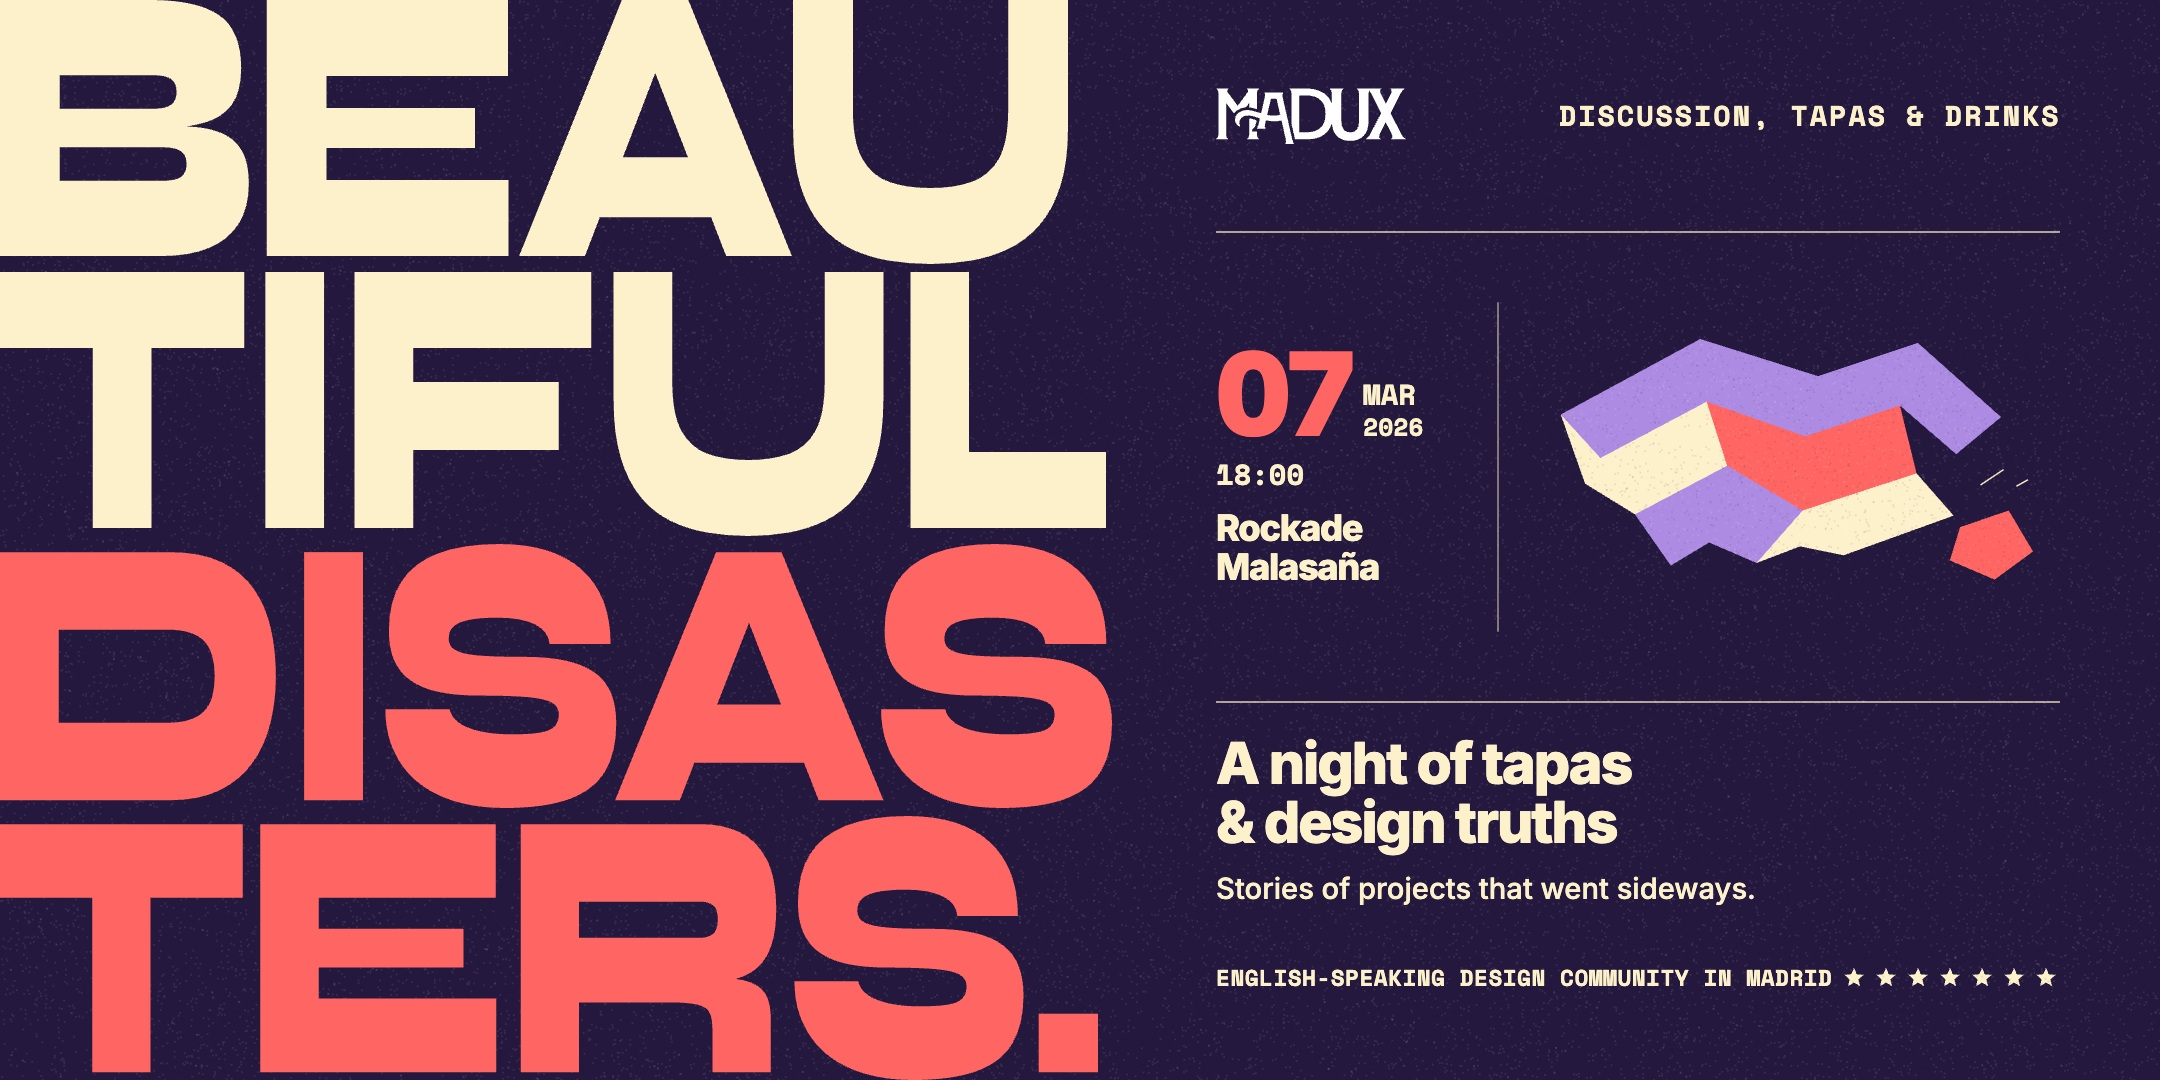
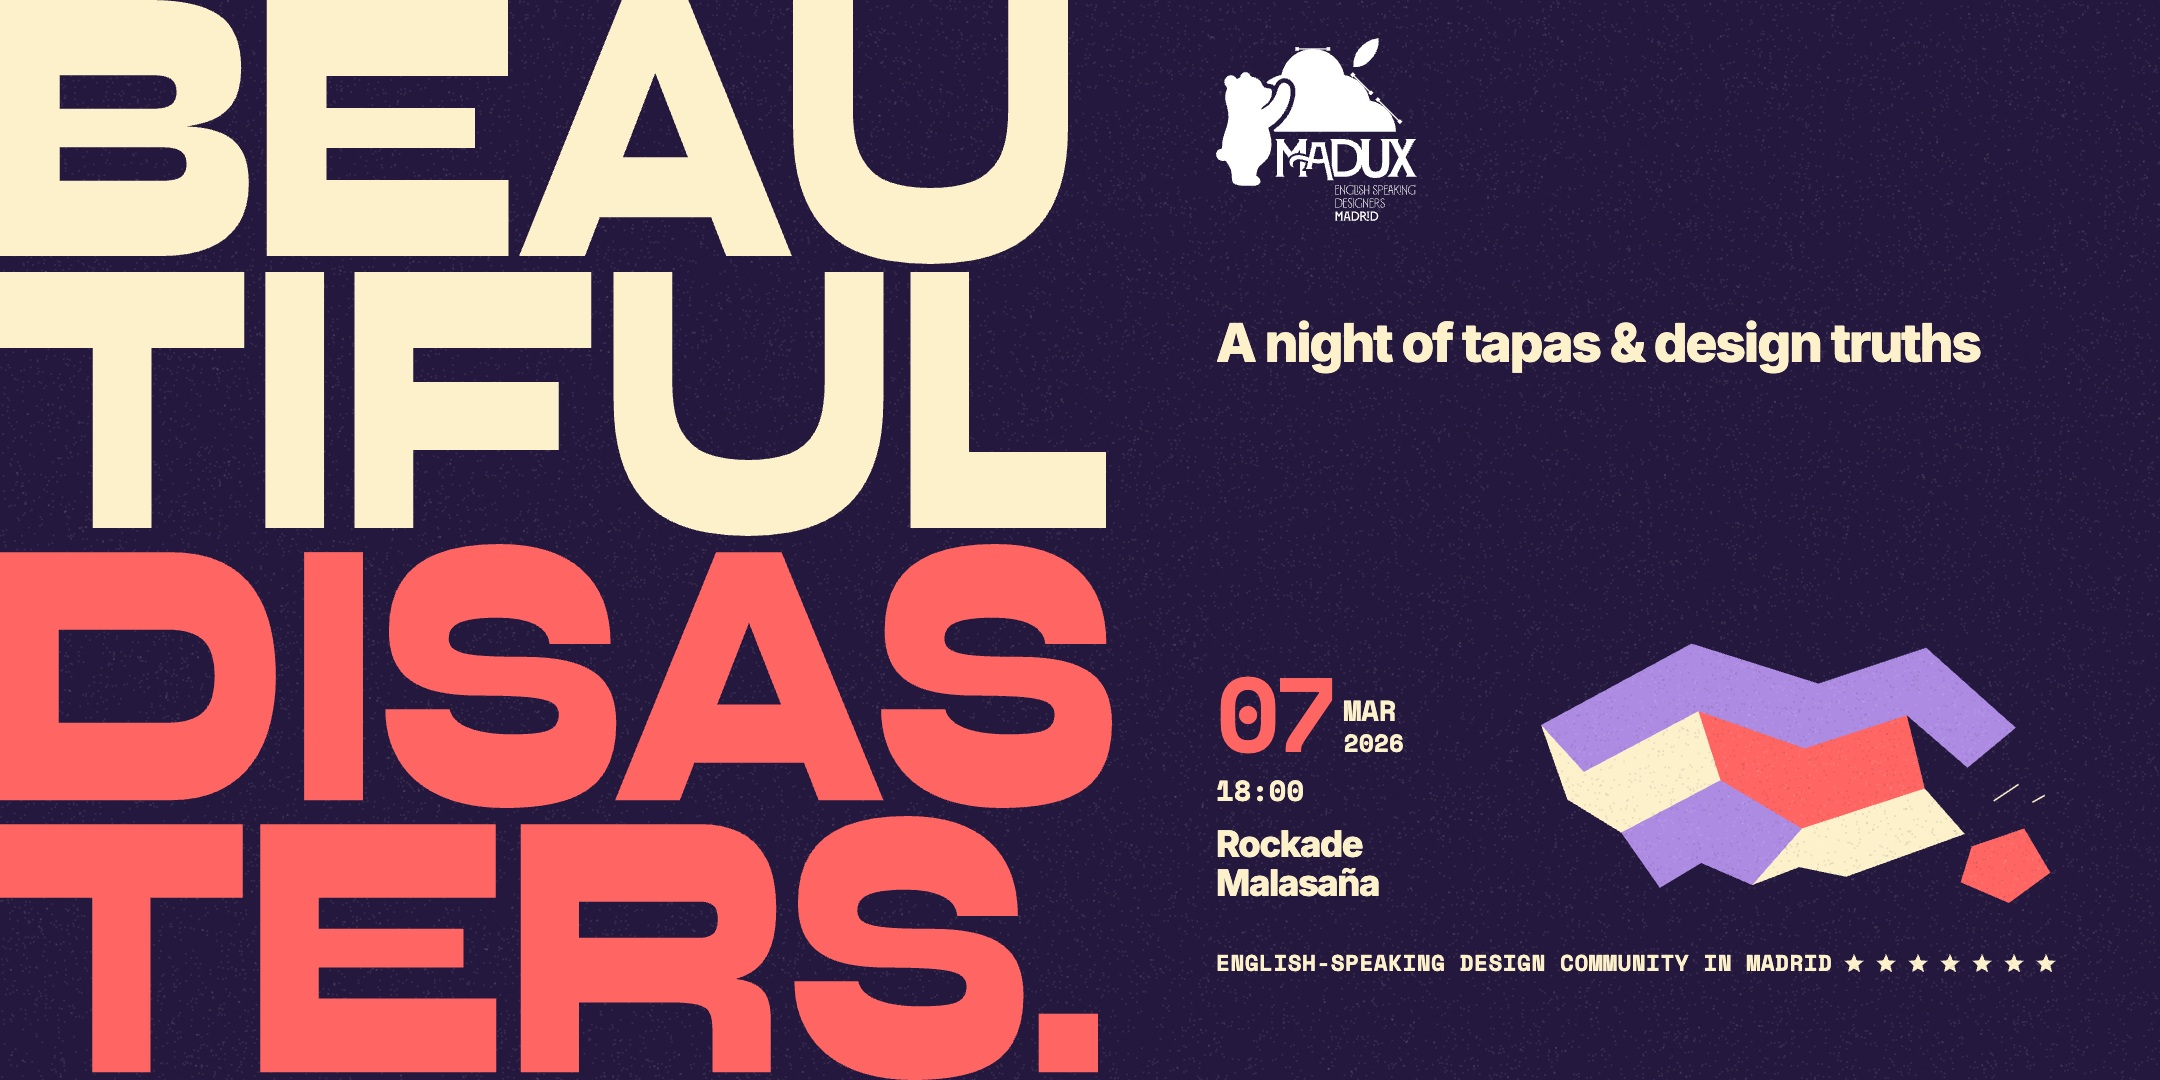
Publish the cleaner MadUX V1 poster system

diff --git a/posters.css b/posters.css
@@ -154,25 +154,21 @@ figcaption a { color: #f3bdff; text-underline-offset: 3px; }
   position: absolute;
   inset: 0 4.6cqw 0 var(--info-column);
   display: grid;
-  grid-template-rows: 10.74cqw 21.76cqw 10.28cqw 5cqw;
+  grid-template-rows: 12cqw 7.8cqw 22cqw 5.6cqw;
 }
 .info-grid .poster-header {
   display: flex;
   align-items: center;
-  justify-content: space-between;
-  gap: 2cqw;
 }
-.info-grid .branding, .info-grid .format, .info-grid .message, .info-grid .location { position: static; }
-.info-grid .branding { width: 8.8cqw; flex: none; }
-.info-grid .format { text-align: right; }
-.info-grid .message { grid-row: 3; padding-top: 1.55cqw; }
+.info-grid .branding, .info-grid .message, .info-grid .location { position: static; }
+.info-grid .branding { width: 9.3cqw; flex: none; }
+.info-grid .message { grid-row: 2; align-self: center; }
 .info-grid .strap {
-  max-width: 35cqw;
-  font-size: 2.65cqw;
+  max-width: 36cqw;
+  font-size: 2.45cqw;
   line-height: 1.03;
-  text-wrap: balance;
+  text-wrap: pretty;
 }
-.info-grid .detail { margin-top: .85cqw; }
 .info-grid .location { grid-row: 4; align-self: center; }
 
 .lightning-madux, .lightning-bricolage, .lightning-serif {
@@ -244,7 +240,7 @@ figcaption a { color: #f3bdff; text-underline-offset: 3px; }
   position: absolute;
   inset: 0 4.6% 4.44% 56.3%;
   display: grid;
-  grid-template-rows: 10.74cqw 21.76cqw 10.28cqw 5cqw;
+  grid-template-rows: 12cqw 7.8cqw 22cqw 5.6cqw;
 }
 .guide-header-row, .guide-footer-row {
   display: flex;
@@ -262,16 +258,16 @@ figcaption a { color: #f3bdff; text-underline-offset: 3px; }
   border-block: 1px solid #c7ed9c;
   background: #343128;
 }
-.guide-copy-box { padding-top: 1.55cqw; font-size: .86em; line-height: 1.2; }
+.guide-copy-box { align-self: center; font-size: .86em; line-height: 1.2; }
 .guide-footer-row { color: #c7ed9c; font-size: .67em; }
 .guide-preview img { display: block; width: 100%; height: 100%; }
 .guide-overlay { position: absolute; inset: 0; pointer-events: none; }
 .guide-overlay > div { position: absolute; border: 1px dashed #fff; background: #0002; }
 .guide-overlay > div:first-child { inset: 0 48.52% 0 0; }
-.guide-overlay > div:nth-child(2) { inset: 0 4.6% 78.52% 56.3%; }
-.guide-overlay > div:nth-child(3) { inset: 21.48% 4.6% 35% 56.3%; }
-.guide-overlay > div:nth-child(4) { inset: 65% 4.6% 14.44% 56.3%; }
-.guide-overlay > div:nth-child(5) { inset: 85.56% 4.6% 4.44% 56.3%; }
+.guide-overlay > div:nth-child(2) { inset: 0 4.6% 76% 56.3%; }
+.guide-overlay > div:nth-child(3) { inset: 24% 4.6% 60.4% 56.3%; }
+.guide-overlay > div:nth-child(4) { inset: 39.6% 4.6% 16.4% 56.3%; }
+.guide-overlay > div:nth-child(5) { inset: 83.6% 4.6% 5.2% 56.3%; }
 .guide-key, .guide-palette, .guide-motif { color: #d5ccc0; line-height: 1.4; font-size: 13px; }
 .guide-key p, .guide-motif { margin-top: 9px; }
 .guide-key strong { display: inline-block; min-width: 65px; color: #c7ed9c; }
@@ -285,14 +281,14 @@ figcaption a { color: #f3bdff; text-underline-offset: 3px; }
 }
 
 .event-logistics {
-  grid-row: 2;
-  place-self: center start;
-  width: 12.25cqw;
+  grid-row: 3;
+  place-self: end start;
+  width: 13.25cqw;
 }
 .event-date { display: flex; align-items: flex-end; gap: .55cqw; }
 .event-day {
   color: var(--highlight);
-  font: 900 5.35cqw/.82 Inter, sans-serif;
+  font: 700 4.85cqw/.86 'Space Mono', monospace;
   letter-spacing: -.06em;
   font-variant-numeric: tabular-nums;
 }
@@ -318,20 +314,17 @@ figcaption a { color: #f3bdff; text-underline-offset: 3px; }
 .story-cover .title-art { top: 19cqw; height: 61cqw; }
 .story-cover .info-grid {
   inset: 83.5cqw 7cqw auto;
-  grid-template-rows: 9.2cqw 42cqw 11.4cqw 6cqw;
+  grid-template-rows: 11cqw 8.5cqw 36cqw 6cqw;
 }
-.story-cover .info-grid .branding { width: 16cqw; }
-.story-cover .format { font-size: 2.25cqw; }
+.story-cover .info-grid .branding { width: 11cqw; }
 .story-cover .event-logistics { width: 28cqw; }
 .story-cover .event-date { gap: 1.1cqw; }
-.story-cover .event-day { font-size: 11.8cqw; }
+.story-cover .event-day { font-size: 10.65cqw; }
 .story-cover .event-month, .story-cover .event-time { font-size: 2.7cqw; }
 .story-cover .event-time { margin-top: 1.45cqw; }
 .story-cover .event-venue { margin-top: 1.55cqw; font-size: 3.4cqw; }
 .story-cover .event-address { margin-top: .7cqw; font-size: 2.2cqw; }
-.story-cover .info-grid .message { padding-top: 2cqw; }
 .story-cover .info-grid .strap { max-width: 83cqw; font-size: 4.15cqw; }
-.story-cover .info-grid .detail { margin-top: .6cqw; font-size: 2.4cqw; }
 .story-cover .info-grid .location { font-size: 2.05cqw; }
 @media (max-width: 1100px) { .story-options { grid-template-columns: repeat(3, minmax(0, 1fr)); } }
 @media (max-width: 740px) { .story-options { grid-template-columns: repeat(2, minmax(0, 1fr)); } }
@@ -344,7 +337,7 @@ figcaption a { color: #f3bdff; text-underline-offset: 3px; }
 }
 .guide-art-box span { display: grid; gap: .5cqw; padding: .5cqw; }
 .guide-art-box span:first-child { border-right: 1px solid #c7ed9c; }
-.guide-overlay > div:nth-child(6) { inset: 21.48% 30.65% 35%; border-width: 0 1px 0 0; background: none; }
+.guide-overlay > div:nth-child(6) { inset: 39.6% 30.65% 16.4%; border-width: 0 1px 0 0; background: none; }
 
 .page-intro { margin-top: 18px; color: #c0bab1; font-size: 15px; line-height: 1.5; }
 h2 small { margin-left: 6px; color: #c0bab1; font: 12px 'Space Mono', monospace; letter-spacing: 0; }

diff --git a/rules.html b/rules.html
@@ -34,19 +34,19 @@
 </tr>
 <tr>
 <td>Right column</td>
-<td>Start at 56.3% of the width and end at 95.4%. Stack a masthead, the date-and-illustration band, the event hook and the community footer. The rules bound the band at 21.5% and 65% of the Eventbrite cover height. Give the logistics the left third of the band and the artwork the other two thirds.</td>
+<td>Start at 56.3% of the width and end at 95.4%. Stack the full logo, the event hook, the date-and-illustration band and the community footer. Use whitespace to separate rows. Give the logistics the left third of the band and the artwork the other two thirds, and align them along their bottom edge.</td>
 </tr>
 <tr>
 <td>Masthead</td>
-<td>Use the existing <strong>MadUX lettering</strong> alone, flush left in the right column, in white or black. Align the event-format label at the right edge of the same row.</td>
+<td>Use the <strong>complete MadUX logo</strong>, including the bear and lettering. Place it on its own at the left edge of the right column, in white or black for contrast.</td>
 </tr>
 <tr>
 <td>Logistics</td>
-<td>Use a large Inter Black day in the event accent, a Space Mono month, year and start time in Madrid local time, and an Inter venue and optional short address below. Keep the place name readable without the address.</td>
+<td>Set the day, month, year and Madrid local start time in Space Mono. Give the day the event accent and use Inter for the venue and optional short address. Keep the place name readable without the address.</td>
 </tr>
 <tr>
 <td>Supporting type</td>
-<td>Use <strong>Inter</strong> for the hook and supporting line and uppercase <strong>Space Mono</strong> for the event format and footer. Balance two-line hooks and keep the last phrase together.</td>
+<td>Use <strong>Inter</strong> for one concise event hook, and uppercase <strong>Space Mono</strong> for the footer. Keep the last phrase of the hook together.</td>
 </tr>
 <tr>
 <td>Footer</td>
@@ -98,7 +98,7 @@
 </tbody>
 </table></markdown-accessiblity-table>
 <h2>Adapt to Stories</h2>
-<p>Stack the title panel above the editorial grid. Keep the title flush to the left edge of its panel and reserve space at the top and bottom for Instagram’s interface. Keep date, time and venue beside the same illustration. Use the same wordmark, event-format label, supporting copy and community footer.</p>
+<p>Stack the title panel above the editorial grid. Keep the title flush to the left edge of its panel and reserve space at the top and bottom for Instagram’s interface. Keep date, time and venue beside the same illustration. Use the same full logo, hook, event details and community footer.</p>
 <h2>Source and release checks</h2>
 <p>The logistics placement follows the original Lightning Talks poster’s date-and-time line and venue beneath it, the Beautiful Disasters when-and-where group, and the accent-coloured details on Systems &amp; Soul. See the MadUX community presentation, slides 6–9.</p>
 <p>The published <a href="https://felipecaroe.github.io/madux-poster-system/" rel="nofollow">MadUX poster examples</a> use past editions. The Spring Portfolio Review and Design Walk details come from the organiser’s Eventbrite listings. The New Year Kick-Off venue is unverified. <a href="https://www.eventbrite.es/e/madux-spring-portfolio-review-tickets-1988544803036" rel="nofollow">Portfolio Review listing</a> · <a href="https://www.eventbrite.es/e/madux-design-walk-and-drinks-tickets-2001158335451" rel="nofollow">Design Walk listing</a></p>

diff --git a/guide.js b/guide.js
@@ -1,6 +1,6 @@
 function renderGuide(container, events) {
   container.innerHTML = `<header class="gallery-header">
-    <img src="https://felipecaroe.github.io/madux-poster-system/assets/wordmark.svg" alt="MadUX">
+    <img src="https://felipecaroe.github.io/madux-poster-system/assets/logo.svg" alt="MadUX">
     <div><h1>Poster wireframe</h1><p><a href="https://felipecaroe.github.io/madux-poster-system/">Event gallery</a> · <a href="https://felipecaroe.github.io/madux-poster-system/rules.html">Design rules</a></p></div>
     <span>2160 × 1080 px</span>
   </header>
@@ -15,17 +15,17 @@ function renderGuide(container, events) {
       <div class="guide-frame" aria-label="Wireframe showing the fixed left title block, the gutter, and the four right-hand rows">
         <div class="guide-title-box"><strong>Event title</strong><small>Syne ExtraBold · flush to three edges</small></div>
         <div class="guide-column">
-          <div class="guide-header-row"><strong>MadUX</strong><span>Event format</span></div>
+          <div class="guide-header-row"><strong>Full MadUX logo</strong></div>
+          <div class="guide-copy-box">Event hook</div>
           <div class="guide-art-box">
             <span><strong>Date + time</strong><small>Venue below</small></span>
             <span><strong>Illustration</strong><small>One motif per event</small></span>
           </div>
-          <div class="guide-copy-box">Event hook<br><small>Supporting line</small></div>
           <div class="guide-footer-row">Community footer <span>★★★★★★★</span></div>
         </div>
       </div>
       <div class="guide-key">
-        <p><strong>Fixed</strong> Layout, wordmark, type roles, community footer and seven stars.</p>
+        <p><strong>Fixed</strong> Layout, full logo, type roles, community footer and seven stars.</p>
         <p><strong>Changes</strong> Event title, logistics, copy, palette and illustration.</p>
       </div>
     </section>

diff --git a/index.html b/index.html
@@ -11,8 +11,8 @@
 <body>
   <main id="gallery">
     <header class="gallery-header">
-      <img src="https://felipecaroe.github.io/madux-poster-system/assets/wordmark.svg" alt="MadUX">
-      <div><h1>MadUX poster system</h1><p><a href="https://felipecaroe.github.io/madux-poster-system/v3/">V3 posters</a> · <a href="https://felipecaroe.github.io/madux-poster-system/wireframe.html">Wireframe</a> · <a href="https://felipecaroe.github.io/madux-poster-system/rules.html">Design rules</a></p></div>
+      <img src="https://felipecaroe.github.io/madux-poster-system/assets/logo.svg" alt="MadUX">
+      <div><h1>MadUX poster system · V1</h1><p><a href="https://felipecaroe.github.io/madux-poster-system/v3/">V3 posters</a> · <a href="https://felipecaroe.github.io/madux-poster-system/wireframe.html">Wireframe</a> · <a href="https://felipecaroe.github.io/madux-poster-system/rules.html">Design rules</a></p></div>
       <span>Eventbrite · Instagram</span>
     </header>
     <p class="page-intro">MadUX is an English-speaking design community in Madrid. These covers use past event details to show how the same design works across six events.</p>

diff --git a/poster-system.md b/poster-system.md
@@ -8,10 +8,10 @@ MadUX is an English-speaking design community in Madrid. These rules define a sh
 | --- | --- |
 | Formats | Eventbrite 2160 × 1080 px (2:1), Instagram Stories 1080 × 1920 px (9:16). Use the same type, colours, artwork and event details in both. |
 | Title | Use uppercase **Syne ExtraBold** with slightly tight tracking. Run the block to the top, bottom and left trim edges. Break long words at a readable point and keep short words intact. Adjust line lengths to fill the left field, up to 51.5% of the canvas. |
-| Right column | Start at 56.3% of the width and end at 95.4%. Stack a masthead, the date-and-illustration band, the event hook and the community footer. The rules bound the band at 21.5% and 65% of the Eventbrite cover height. Give the logistics the left third of the band and the artwork the other two thirds. |
-| Masthead | Use the existing **MadUX lettering** alone, flush left in the right column, in white or black. Align the event-format label at the right edge of the same row. |
-| Logistics | Use a large Inter Black day in the event accent, a Space Mono month, year and start time in Madrid local time, and an Inter venue and optional short address below. Keep the place name readable without the address. |
-| Supporting type | Use **Inter** for the hook and supporting line and uppercase **Space Mono** for the event format and footer. Balance two-line hooks and keep the last phrase together. |
+| Right column | Start at 56.3% of the width and end at 95.4%. Stack the full logo, the event hook, the date-and-illustration band and the community footer. Use whitespace to separate rows. Give the logistics the left third of the band and the artwork the other two thirds, and align them along their bottom edge. |
+| Masthead | Use the **complete MadUX logo**, including the bear and lettering. Place it on its own at the left edge of the right column, in white or black for contrast. |
+| Logistics | Set the day, month, year and Madrid local start time in Space Mono. Give the day the event accent and use Inter for the venue and optional short address. Keep the place name readable without the address. |
+| Supporting type | Use **Inter** for one concise event hook, and uppercase **Space Mono** for the footer. Keep the last phrase of the hook together. |
 | Footer | Use **English-speaking design community in Madrid** and the seven-star Madrid signature in their fixed positions. |
 
 ## Change by event
@@ -29,7 +29,7 @@ Change the event title, logistics and copy, the palette and the illustration. Ch
 
 ## Adapt to Stories
 
-Stack the title panel above the editorial grid. Keep the title flush to the left edge of its panel and reserve space at the top and bottom for Instagram’s interface. Keep date, time and venue beside the same illustration. Use the same wordmark, event-format label, supporting copy and community footer.
+Stack the title panel above the editorial grid. Keep the title flush to the left edge of its panel and reserve space at the top and bottom for Instagram’s interface. Keep date, time and venue beside the same illustration. Use the same full logo, hook, event details and community footer.
 
 ## Source and release checks
 
